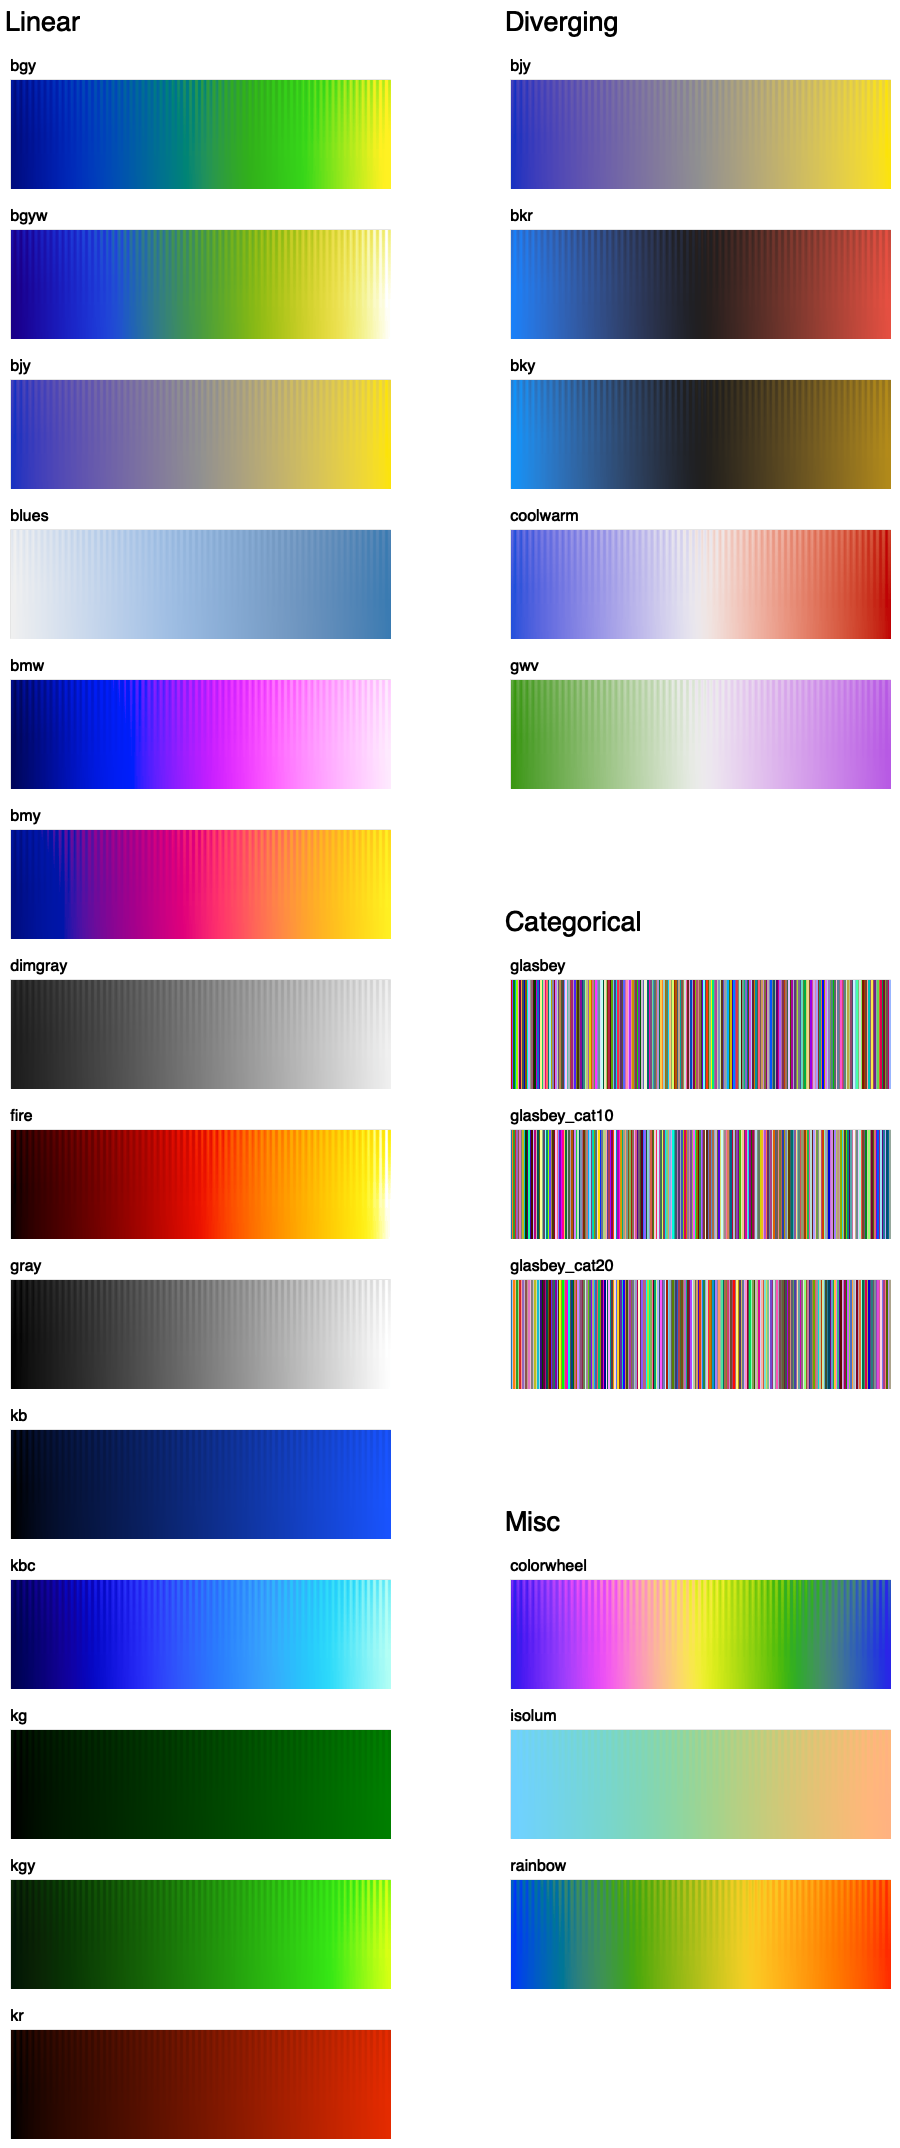
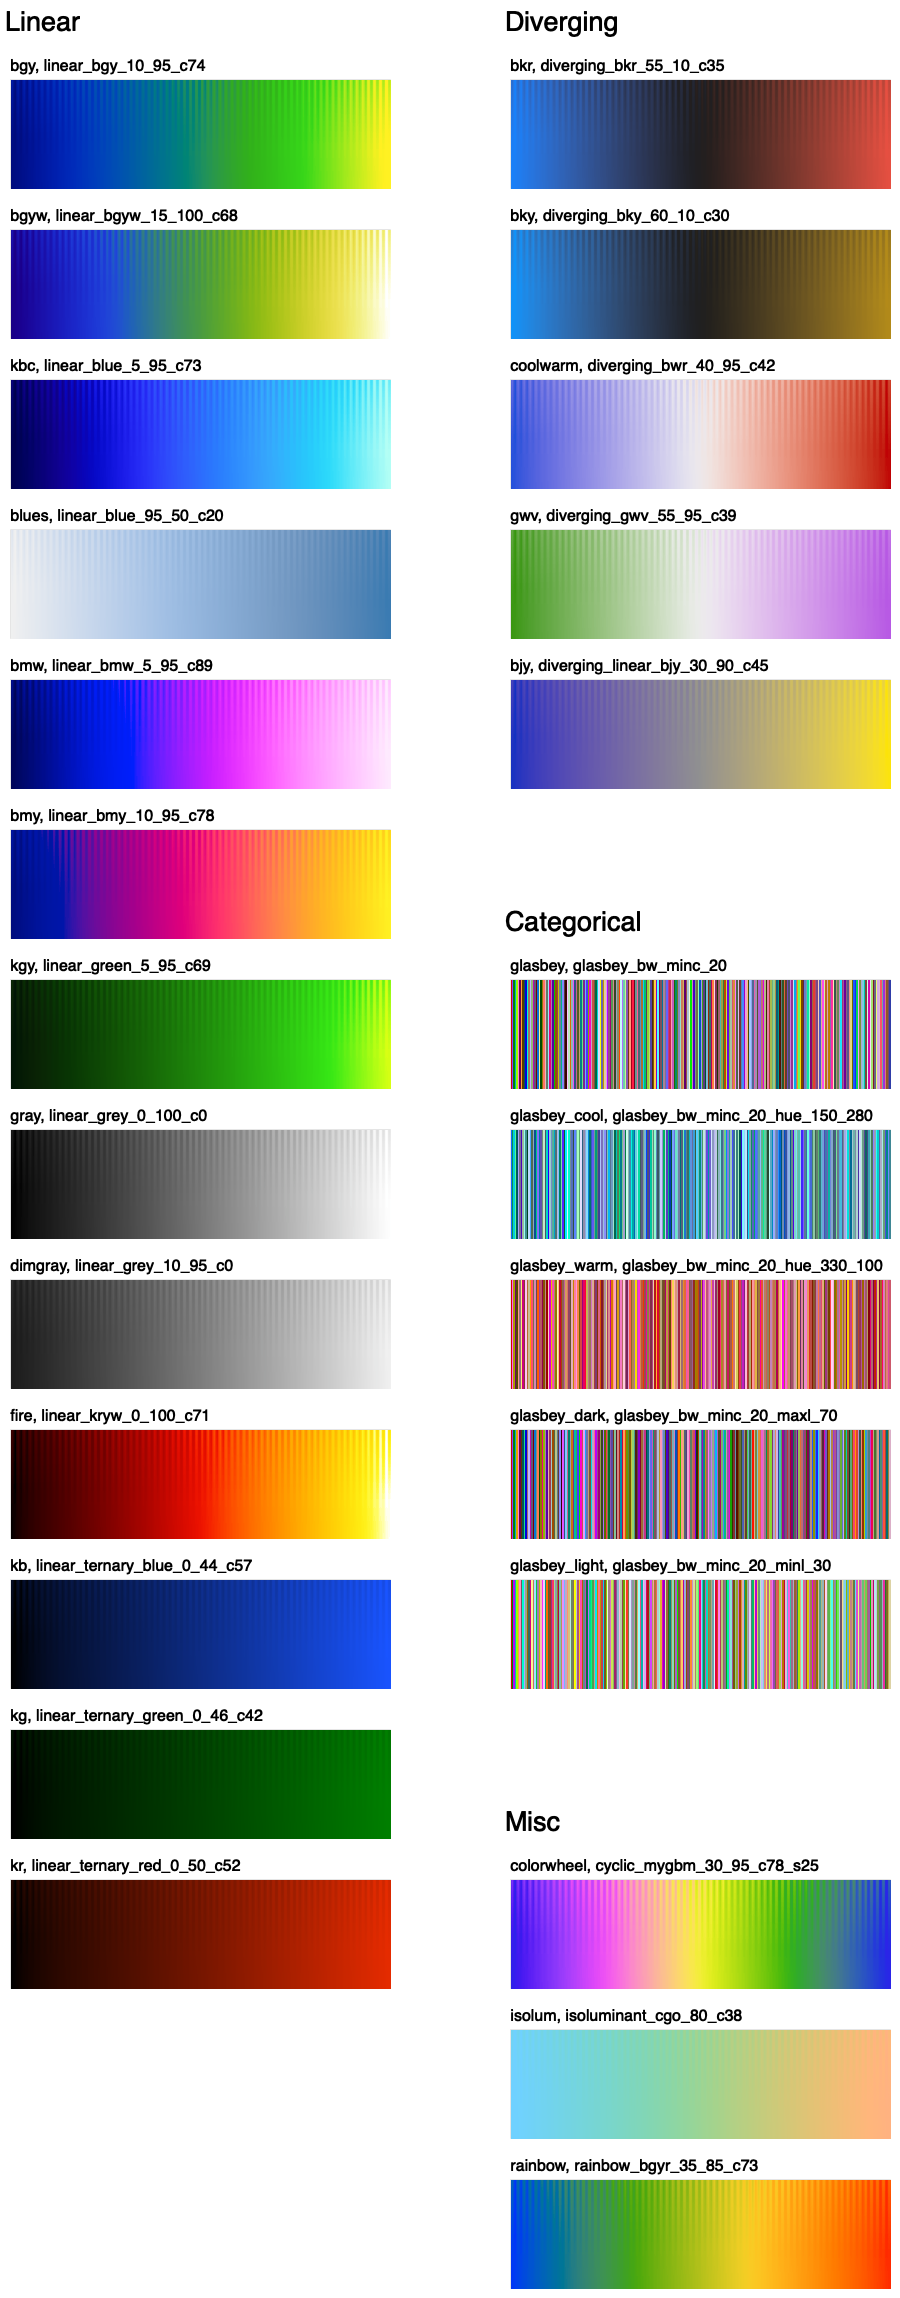
Using new plotting in all notebooks

diff --git a/assets/CET_to_py.py b/assets/CET_to_py.py
@@ -94,11 +94,13 @@ def get_aliases(name):
             name = '{0}, {1}'.format(v, k)
     return name
 
-def all_original_names(group=None, only_aliased=False):
+def all_original_names(group=None, not_group=None, only_aliased=False):
     """Get all original names - optionally in a particular group - or only those with aliases"""
     names = palette.keys()
     if group:
         names = filter(lambda x: group in x, names)
+    if not_group:
+        names = filter(lambda x: not_group not in x, names)
     if only_aliased:
         names = filter(lambda x: x in aliases.keys(), names)
     else:
@@ -108,43 +110,41 @@ def all_original_names(group=None, only_aliased=False):
 def colormap(name, cmap=None, bounds=None, array=None,**kwargs):
     """Plot a colormap using matplotlib or bokeh via holoviews"""
     import holoviews as hv; from holoviews import opts
-    backends = hv.Store.loaded_backends()
-    backend_opts = []
-    if 'bokeh' in backends:
-        backend_opts.append(opts.Image(backend='bokeh', width=900, height=100, toolbar='above',
-                                       default_tools=['xwheel_zoom', 'xpan', 'save', 'reset'],
-                                       cmap=cmap or palette[name]))
-    if 'matplotlib' in backends:
-        backend_opts.append(opts.Image(backend='matplotlib', aspect=15, fig_size=350,
-                                       cmap=cmap or cm[name]))
 
-    if cmap is None:
-        name = get_aliases(name)
+    title = name if cmap else get_aliases(name)
     if bounds is None:
         bounds = (0, 0, 256, 1)
     if array is None:
         import numpy as np
         array = np.meshgrid(np.linspace(0, 1, 256), np.linspace(0, 1, 10))[0]
 
-    default_kwargs = dict(xaxis=None, yaxis=None)
-    default_kwargs.update(**kwargs)
+    plot = hv.Image(array, bounds=bounds, group=title)
+    backends = hv.Store.loaded_backends()
+    if 'bokeh' in backends:
+        plot.opts(opts.Image(backend='bokeh', width=900, height=100, toolbar='above',
+                             default_tools=['xwheel_zoom', 'xpan', 'save', 'reset'],
+                             cmap=cmap or palette[name]))
+    if 'matplotlib' in backends:
+        plot.opts(opts.Image(backend='matplotlib', aspect=15, fig_size=350,
+                             cmap=cmap or cm[name]))
+    return plot.opts(opts.Image(xaxis=None, yaxis=None), opts.Image(**kwargs))
 
-    return (hv.Image(array, bounds=bounds, group=name)
-            .opts(*backend_opts)
-            .opts(opts.Image(**default_kwargs)))
-
-def colormaps(*args, group=None, only_aliased=False, **kwargs):
-    """Plotted colormaps for given names or names in group"""
+def colormaps(*args, group=None, not_group=None, only_aliased=False, cols=1, **kwargs):
+    """Plot colormaps for given names or names in group"""
     import holoviews as hv; from holoviews import opts
 
-    args = args or all_original_names(group=group, only_aliased=only_aliased)
-    plot = hv.Layout([colormap(name, **kwargs) for name in args]).cols(1)
+    args = args or all_original_names(group=group, not_group=not_group,
+                                      only_aliased=only_aliased)
+    plot = hv.Layout([
+      colormap(arg, **kwargs) if isinstance(arg, str) else
+      colormap(*arg, **kwargs) for
+      arg in args]).cols(cols)
 
     backends = hv.Store.loaded_backends()
     if 'matplotlib' in backends:
-        plot.opts(opts.Layout(backend='matplotlib', sublabel_format=None, fig_size=350))
-
-    return plot.opts(opts.Layout(**kwargs))
+        plot.opts(opts.Layout(backend='matplotlib', sublabel_format=None,
+                              fig_size=kwargs.get('fig_size', 350)))
+    return plot
 
 palette = AttrODict()
 cm = AttrODict()

diff --git a/colorcet/__init__.py b/colorcet/__init__.py
@@ -81,11 +81,13 @@ def get_aliases(name):
             name = '{0}, {1}'.format(v, k)
     return name
 
-def all_original_names(group=None, only_aliased=False):
+def all_original_names(group=None, not_group=None, only_aliased=False):
     """Get all original names - optionally in a particular group - or only those with aliases"""
     names = palette.keys()
     if group:
         names = filter(lambda x: group in x, names)
+    if not_group:
+        names = filter(lambda x: not_group not in x, names)
     if only_aliased:
         names = filter(lambda x: x in aliases.keys(), names)
     else:
@@ -95,43 +97,41 @@ def all_original_names(group=None, only_aliased=False):
 def colormap(name, cmap=None, bounds=None, array=None,**kwargs):
     """Plot a colormap using matplotlib or bokeh via holoviews"""
     import holoviews as hv; from holoviews import opts
-    backends = hv.Store.loaded_backends()
-    backend_opts = []
-    if 'bokeh' in backends:
-        backend_opts.append(opts.Image(backend='bokeh', width=900, height=100, toolbar='above',
-                                       default_tools=['xwheel_zoom', 'xpan', 'save', 'reset'],
-                                       cmap=cmap or palette[name]))
-    if 'matplotlib' in backends:
-        backend_opts.append(opts.Image(backend='matplotlib', aspect=15, fig_size=350,
-                                       cmap=cmap or cm[name]))
 
-    if cmap is None:
-        name = get_aliases(name)
+    title = name if cmap else get_aliases(name)
     if bounds is None:
         bounds = (0, 0, 256, 1)
     if array is None:
         import numpy as np
         array = np.meshgrid(np.linspace(0, 1, 256), np.linspace(0, 1, 10))[0]
 
-    default_kwargs = dict(xaxis=None, yaxis=None)
-    default_kwargs.update(**kwargs)
+    plot = hv.Image(array, bounds=bounds, group=title)
+    backends = hv.Store.loaded_backends()
+    if 'bokeh' in backends:
+        plot.opts(opts.Image(backend='bokeh', width=900, height=100, toolbar='above',
+                             default_tools=['xwheel_zoom', 'xpan', 'save', 'reset'],
+                             cmap=cmap or palette[name]))
+    if 'matplotlib' in backends:
+        plot.opts(opts.Image(backend='matplotlib', aspect=15, fig_size=350,
+                             cmap=cmap or cm[name]))
+    return plot.opts(opts.Image(xaxis=None, yaxis=None), opts.Image(**kwargs))
 
-    return (hv.Image(array, bounds=bounds, group=name)
-            .opts(*backend_opts)
-            .opts(opts.Image(**default_kwargs)))
-
-def colormaps(*args, group=None, only_aliased=False, **kwargs):
-    """Plotted colormaps for given names or names in group"""
+def colormaps(*args, group=None, not_group=None, only_aliased=False, cols=1, **kwargs):
+    """Plot colormaps for given names or names in group"""
     import holoviews as hv; from holoviews import opts
 
-    args = args or all_original_names(group=group, only_aliased=only_aliased)
-    plot = hv.Layout([colormap(name, **kwargs) for name in args]).cols(1)
+    args = args or all_original_names(group=group, not_group=not_group,
+                                      only_aliased=only_aliased)
+    plot = hv.Layout([
+      colormap(arg, **kwargs) if isinstance(arg, str) else
+      colormap(*arg, **kwargs) for
+      arg in args]).cols(cols)
 
     backends = hv.Store.loaded_backends()
     if 'matplotlib' in backends:
-        plot.opts(opts.Layout(backend='matplotlib', sublabel_format=None, fig_size=350))
-
-    return plot.opts(opts.Layout(**kwargs))
+        plot.opts(opts.Layout(backend='matplotlib', sublabel_format=None,
+                              fig_size=kwargs.get('fig_size', 350)))
+    return plot
 
 palette = AttrODict()
 cm = AttrODict()

diff --git a/examples/assets/write_named.py b/examples/assets/write_named.py
@@ -8,31 +8,17 @@ import panel as pn
 
 hv.extension('bokeh')
 
-xs, _ = np.meshgrid(np.linspace(0, 1, 256), np.linspace(0, 1, 10))
+sine = np.load("../assets/colourmaptest.npy")
 
-def colormap(name, cmap=None, bounds=(0, 0, 256, 1), array=xs, **kwargs):
-    if cmap is None:
-        cmap = cc.palette[name]
-    options = opts.Image(xaxis=None, yaxis=None, width=400, height=150, cmap=cmap, toolbar=None, **kwargs)
-    return hv.Image(array, bounds=bounds, group=name).opts(options)
-   
-sine = np.load("./colourmaptest.npy")
+diverging_n = cc.all_original_names(group='diverging', only_aliased=True)
+linear_n = cc.all_original_names(group='linear', not_group='diverging', only_aliased=True)
+cat_n = cc.all_original_names(group='glasbey', only_aliased=True)
+misc_n = sorted([k for k in cc.aliases if k not in cat_n + diverging_n + linear_n])
 
-def get_names_for_group(group='diverging'):
-    palettes = [v for k, v in cc.palette.items() if group in k]
-    return sorted([k for k, v in cc.palette_n.items() if v in palettes])
-    
-diverging_n = get_names_for_group('diverging')
-diverging_col = pn.Column('#Diverging', *[colormap(c, array=sine) for c in diverging_n])
-
-linear_n = get_names_for_group('linear')
-linear_col = pn.Column('#Linear', *[colormap(c, array=sine) for c in linear_n])
-
-cat_n = get_names_for_group('glasbey')
-cat_col = pn.Column('#Categorical', *[colormap(c) for c in cat_n])
-
-misc_n = sorted([k for k in cc.palette_n.keys() if k not in cat_n + diverging_n + linear_n])
-misc_col = pn.Column('#Misc', *[colormap(c, array=sine) for c in misc_n])
+diverging_col = pn.Column('#Diverging', cc.colormaps(*diverging_n, array=sine, width=400, height=150).opts(toolbar=None))
+linear_col = pn.Column('#Linear', cc.colormaps(*linear_n, array=sine, width=400, height=150).opts(toolbar=None))
+cat_col = pn.Column('#Categorical', cc.colormaps(*cat_n, width=400, height=150).opts(toolbar=None))
+misc_col = pn.Column('#Misc', cc.colormaps(*misc_n, array=sine, width=400, height=150).opts(toolbar=None))
 
 all_named = pn.Row(
     linear_col, pn.Spacer(width=100), 
